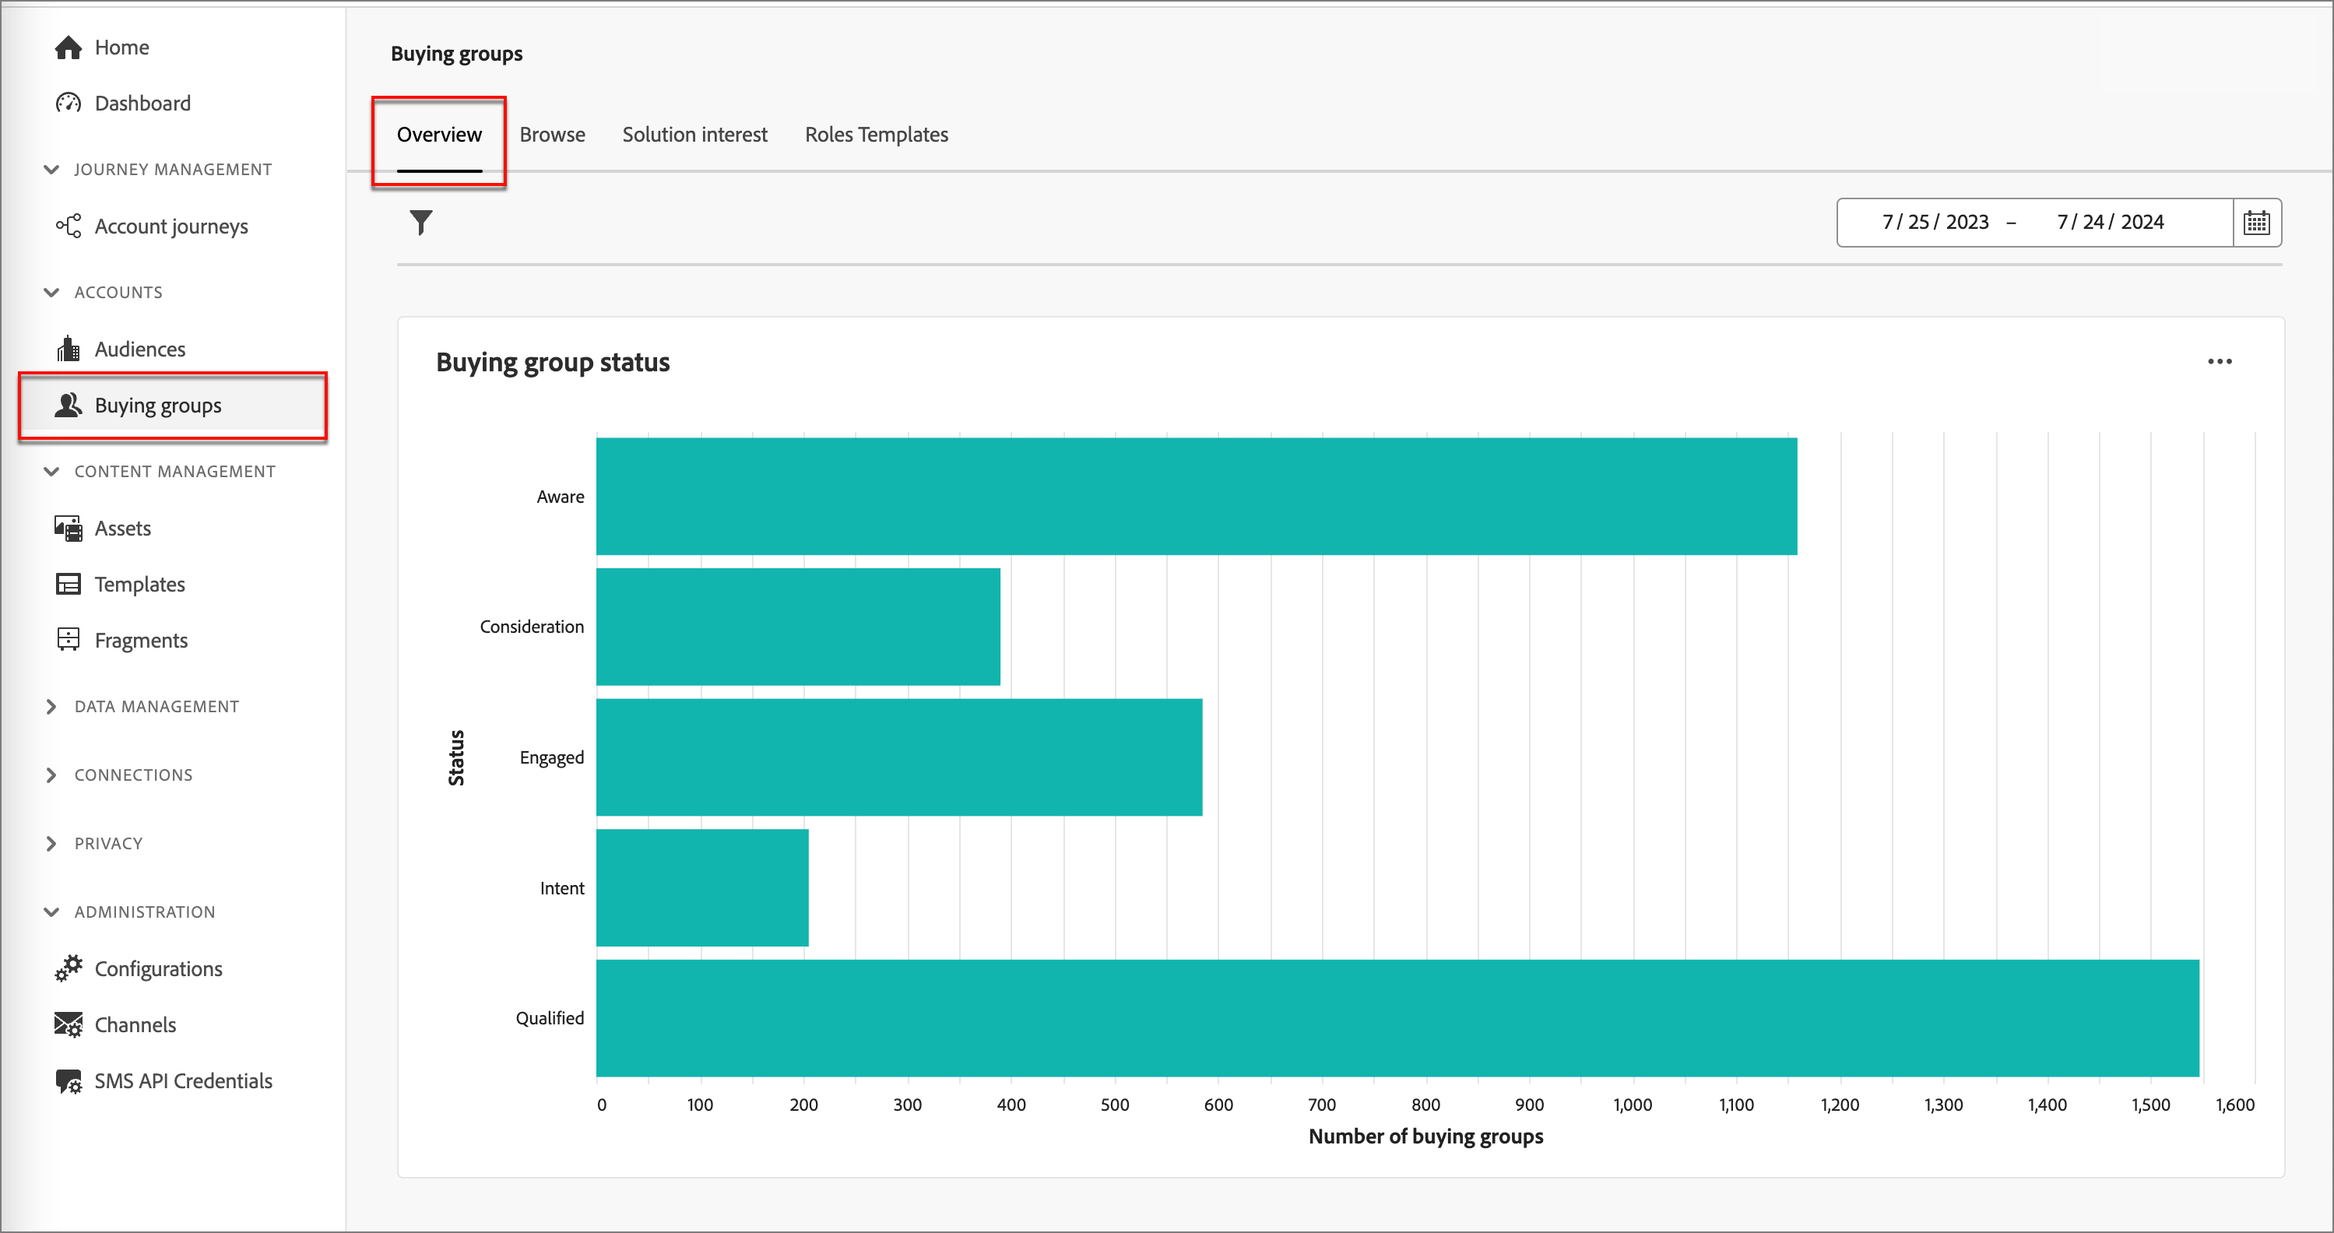
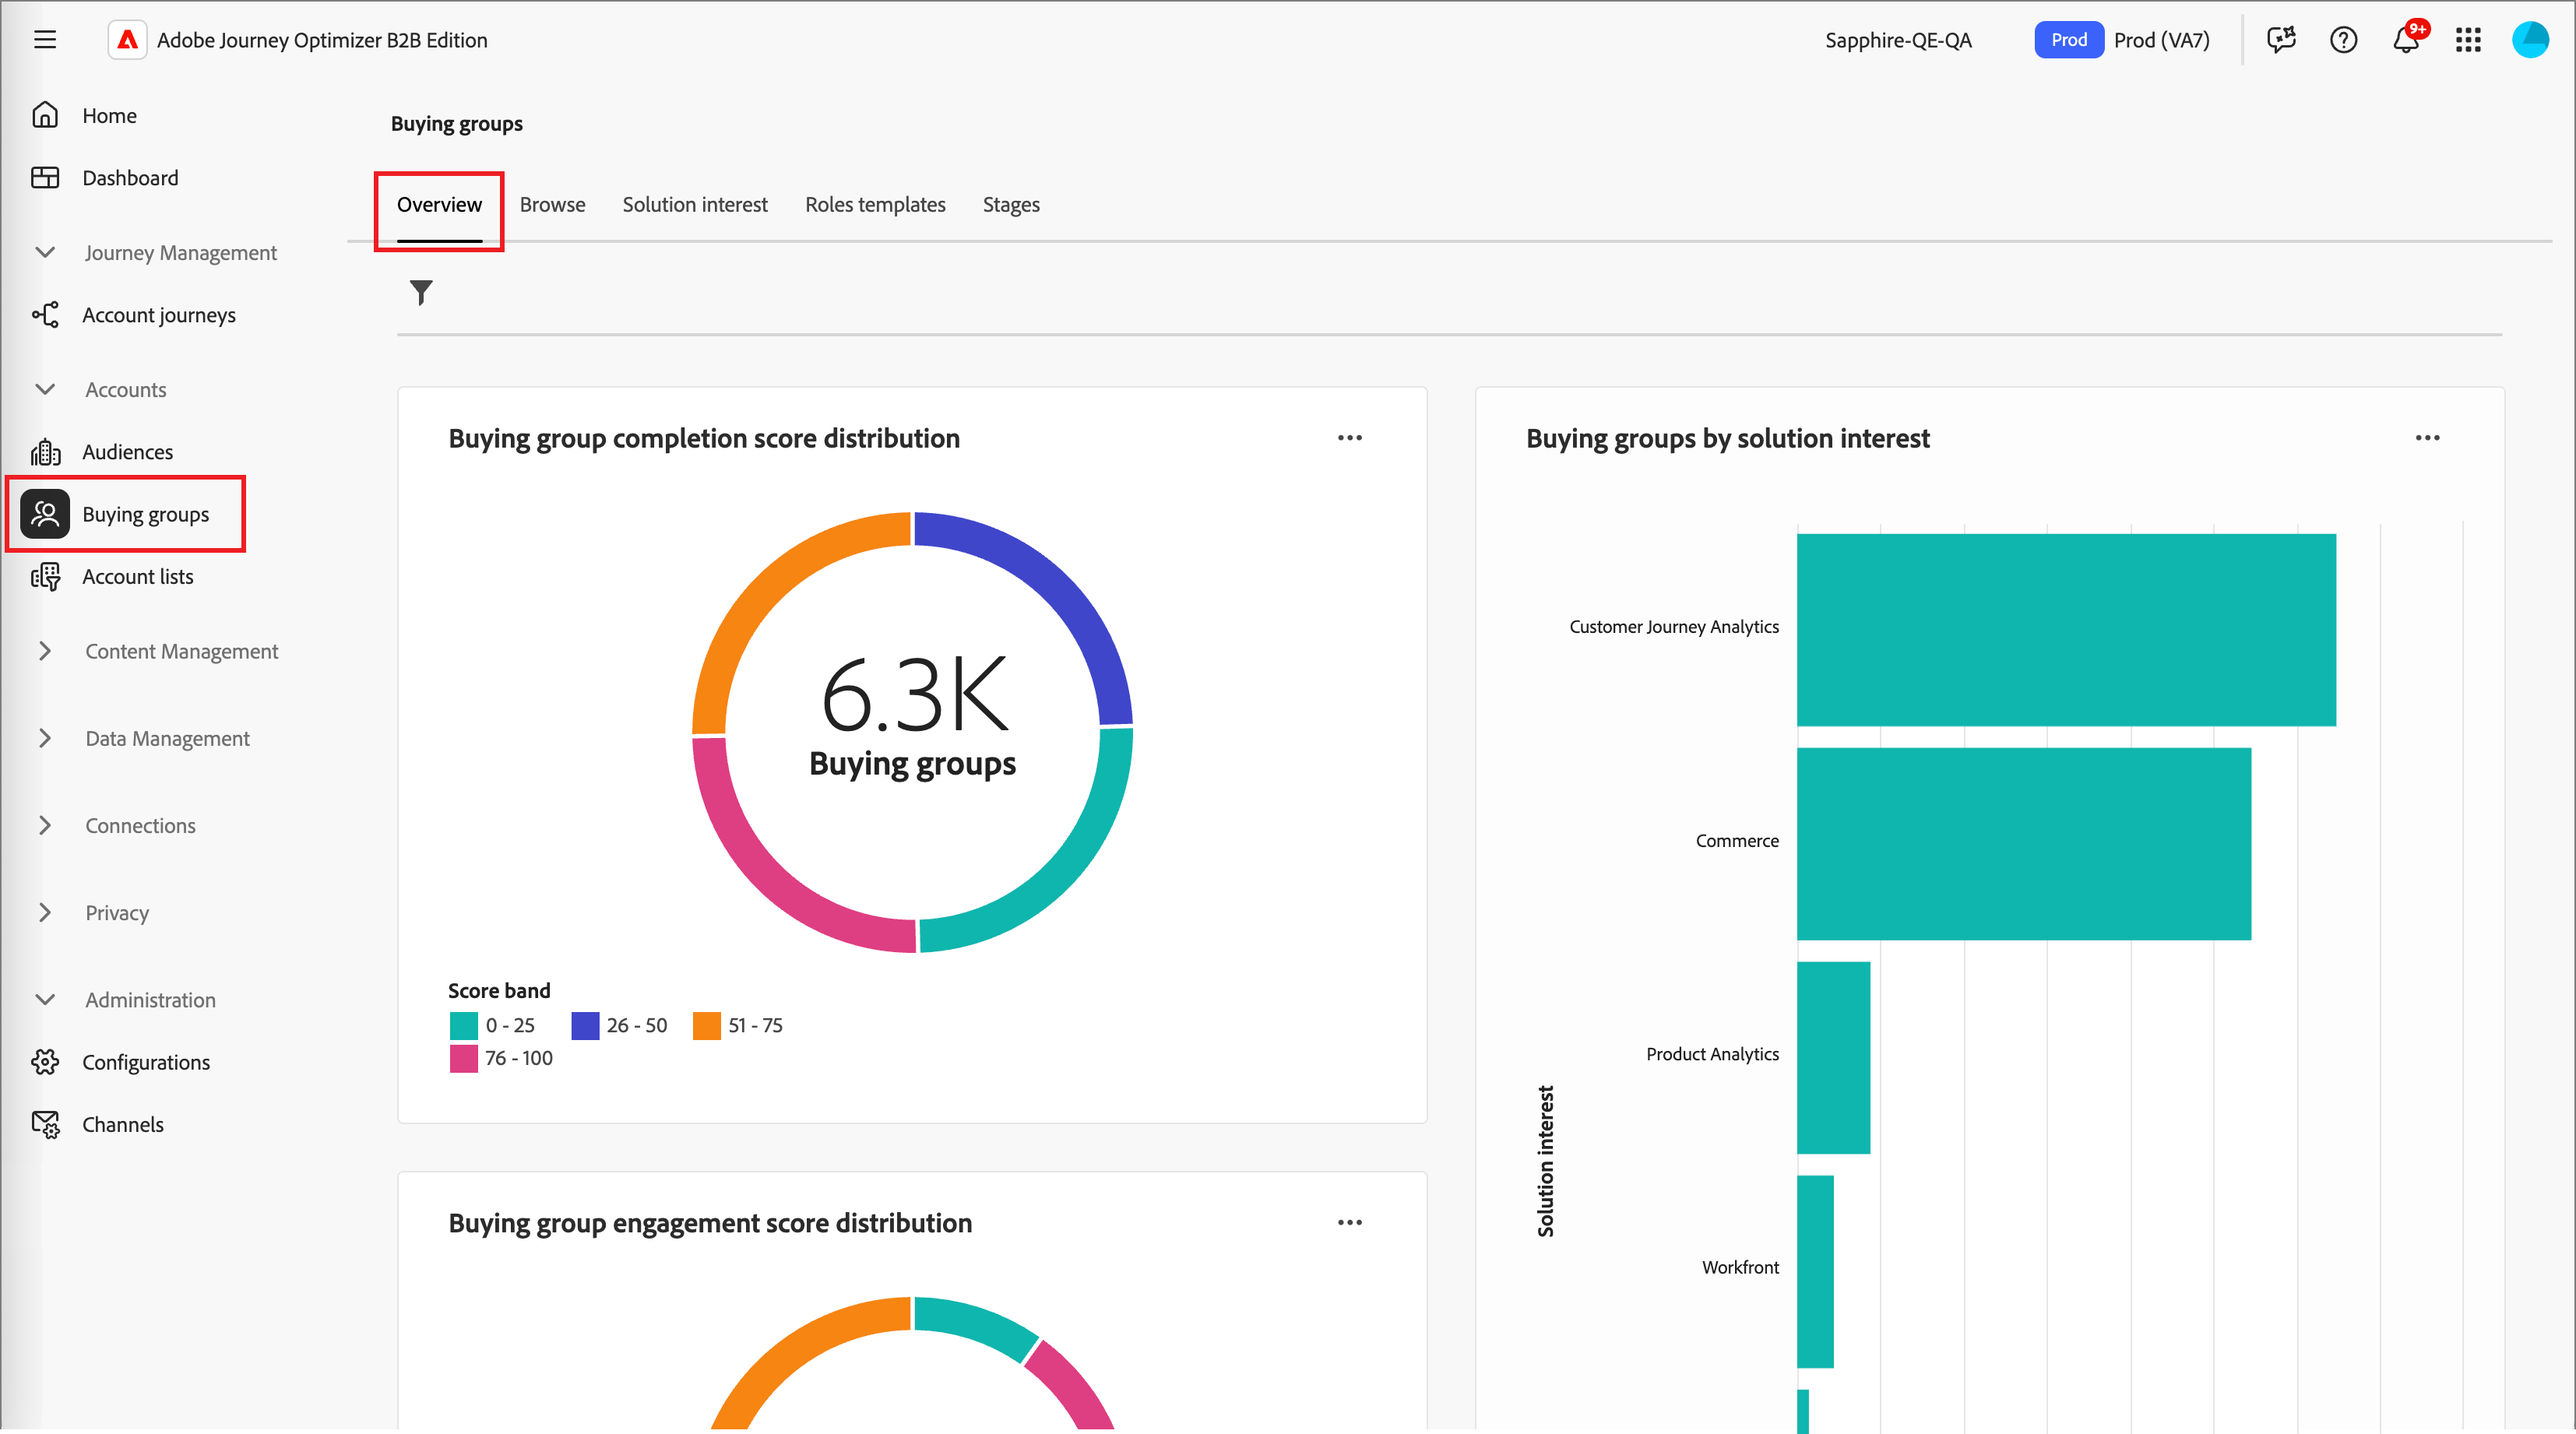
Buying group overview dashboard updates

diff --git a/help/user/dashboards/buying-groups-dashboard.md b/help/user/dashboards/buying-groups-dashboard.md
@@ -6,13 +6,17 @@ exl-id: 26b1e7fd-2252-4782-8d0f-874720cc7d03
 ---
 # Buying Groups Overview dashboard
 
-The Buying Group Overview dashboard is designed for the B2B Sales Handoff process. It enables the Marketing team to share _ready_ buying groups and their members along with essential data to the Sales team for execution. This process ensures a streamlined transition from marketing to sales.
+The Overview dashboard for buying groups is designed for the B2B Sales handoff process. It enables the Marketing team to share _ready_ buying groups and their members along with essential data to the Sales team for execution. This process ensures a streamlined transition from marketing to sales.
 
-The Sales Handoff comprises:
+The Sales handoff comprises:
 
-* **Data Handoff**: Marketing identifies _ready_ target data and makes it accessible to Sales in the CSV format. 
-* **Sales Acceptance**: Sales manually reviews and incorporates _ready_ targets into their pipeline.
+* **Data handoff**: Marketing identifies _ready_ target data and makes it accessible to Sales in the CSV format. 
+* **Sales acceptance**: Sales manually reviews and incorporates _ready_ targets into their pipeline.
 
+You can access this dashboard by expanding  **[!UICONTROL Accounts]** in the left navigation and then clicking **[!UICONTROL Buying groups]**. Select the **[!UICONTROL Overview]** tab if it is not displayed by default.
+
+![Buying Groups overview](./assets/buying-groups-overview.png){width="800" zoomable="yes"}
+<!--
 ## Buying Group Status
 
 Gain insights into your buying groups' progression with the Buying Group Status view. This visualization showcases the distribution of your buying groups categorized by their most recent status update within a specified time frame.
@@ -21,63 +25,66 @@ Gain insights into your buying groups' progression with the Buying Group Status 
 
 **[!UICONTROL Status]** (y-axis): Track the journey of buying groups through various stages.
 **[!UICONTROL Number of Buying Groups]** (x-axis): Quantify the number of buying groups at each status, providing a clear metric of your funnel's health and activity.
-<!-- To generate a shareable PDF of your current view, click **[!UICONTROL Export]** at the top-right corner of the page. -->
 
-### Data filtering
+To generate a shareable PDF of your current view, click **[!UICONTROL Export]** at the top-right corner of the page. -->
 
-* **Data filter** - Use the _[!UICONTROL Date filter]_, which reflects the Buying Group last status change date. The start date is adjustable. The end date defaults to the current day.
+## Buying group completion score distribution
 
-   ![Filtering the buying group status data by date range](./assets//buying-group-status-filter-date.png){width="400"}
+This visualization illustrates the distribution of buying groups based on the completion scores, and is categorized into four distinct score bands. The central figure represents the total number of buying groups, and provides a quick snapshot of overall progress. The segmented colors indicate the proportion of buying groups within each score range, which allows you to assess completion trends at a glance.
 
-* **Attribute filter** - Click the _Filter_ icon at the top left to filter the data display using any of these attributes:
+To view more detailed information, click the **...** menu icon at the top right.
 
-    * Solution Interest
-    * Status
-    * Buying Group Statuses
-    * Account Region
-    * Account Industry
-    <!-- * Account's Industry -->
+![Buying group completion score visualization](./assets/buying-group-completion-score-chart.png){width="500"}
 
-   ![Filtering the buying group status data by attribute](./assets/buying-group-status-drill-through-filters.png){width="500"}
+## Buying group engagement score distribution
+
+This visualization illustrates the distribution of buying groups based on their engagement scores, and is categorized into four distinct score bands. The central figure represents the total number of buying groups, and provides a quick snapshot of overall progress. The segmented colors indicate the proportion of buying sroups within each score range, which allows you to assess completion trends at a glance.
+
+To view more detailed information, click the **...** menu icon at the top right.
+
+![Buying group engagement score visualization](./assets/buying-group-completion-score-chart.png){width="500"}
+
+## Buying groups by solution interest
+
+This visualization illustrates the distribution of buying groups by solution interest, and helps you to identify which solutions generate the most interest. Each bar represents a specific solution, with its length indicating the number of buying groups associated with that interest. This  bar chart provides a clear and immediate understanding of solution demand trends.
+
+To view more detailed information, click the **...** menu icon at the top right. Choose **Drill through** or **View More**.
+
+![Buying group engagement score visualization](./assets/buying-group-by-solution-interest-chart.png){width="500"}
+
+## Filter the data
+
+Click the _Filter_ ( ![Filter icon](../assets/do-not-localize/icon-filter.svg) ) icon at the top left to filter the displayed data using any of these attributes:
+
+* Current stage
+* Industry
+* Region
+* Solution interest
+
+![Filter the displayed data by attributes](./assets/buying-group-overview-filters.png){width="500"}
+
+Select as many values for each attribute that you want to use to filter the data and click **[!UICONTROL Apply]**.
 
 ## Engage with the data
 
-To engage with the data, use the action menu in the top-right corner. 
-
-![Click the icon to access the actions menu](./assets/buying-group-more-menu.png){width="300"}
+To engage with the data, use the the **...** menu at the top-right of each chart. 
 
 ### [!UICONTROL Drill through]
 
-Choose **[!UICONTROL Drill through]** for an in-depth analysis of individual group statuses.
+Choose **[!UICONTROL Drill through]** for an in-depth analysis of individual group scores or distributions. 
 
-![The drill through for the graph data](./assets/buying-group-status-drill-through-view.png){width="600" zoomable="yes"}
+![The drill through to access the graph data](./assets/buying-group-completion-score-drill-through-view.png){width="700" zoomable="yes"}
 
-The global filters applied to the dashboard are carried over.
+The global filters applied to the dashboard are carried over. Click the _Filter_ ( ![Filter icon](../assets/do-not-localize/icon-filter.svg) ) icon at the top left to [change the attribute filters](#filter-the-data) for the drill-through view.
 
-Click the action menu icon on the top right and choose **[!UICONTROL View more]** to [view extended data and insights](#view-more).
+You can click **...** menu at the top-righ and choose **[!UICONTROL View more]** to [view extended data and insights](#view-more).
 
 ### [!UICONTROL View more]
 
-Choose **[!UICONTROL View more]** for extended data and insights. The displayed pop-up includes a chart and a table that show the breakdown of the buying group statuses:
+Choose **[!UICONTROL View more]** to view extended data and insights.
 
-* [!UICONTROL Account ID ]
-* [!UICONTROL Account Name]
-* [!UICONTROL Account Region]
-* [!UICONTROL Account Industry]
-* [!UICONTROL Buying Group Name]
-* [!UICONTROL Solution Interest]
-* [!UICONTROL Status]
-* [!UICONTROL Engagement Score]
-* [!UICONTROL Completeness Score]
-* [!UICONTROL Member Role]
-* [!UICONTROL Member Enrolled / Created Date]
-* [!UICONTROL Person ID]
-* [!UICONTROL Name]
-* [!UICONTROL Email]
-* [!UICONTROL Title]
-* [!UICONTROL Number of Inbound Engagement Activities]
-* [!UICONTROL Last engagement date]
+![View extended data](./assets/buying-group-engagement-score-view-more.png){width="700" zoomable="yes"}
 
-![View extended data](./assets/buying-group-status-view-more.png){width="600" zoomable="yes"}
+The displayed pop-up includes a chart and a table that show the breakdown of the buying group distribution. :
 
-To download the data, click **[!UICONTROL Download CSV]** at the top right.
+To download the data, click **[!UICONTROL Download CSV]** at the top right of the data table. To return to the Overview dashboard, click **[!UICONTROL Cose]**.
